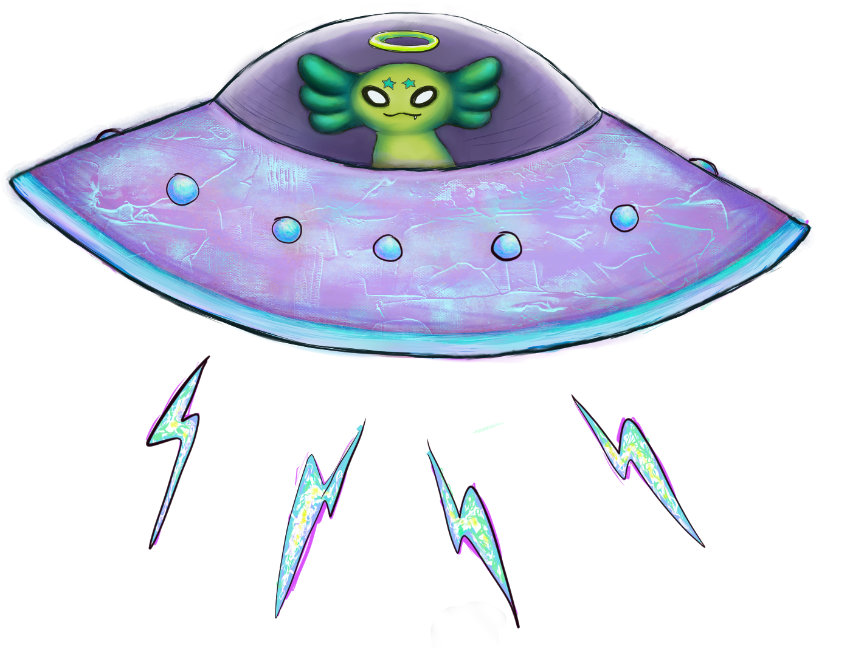
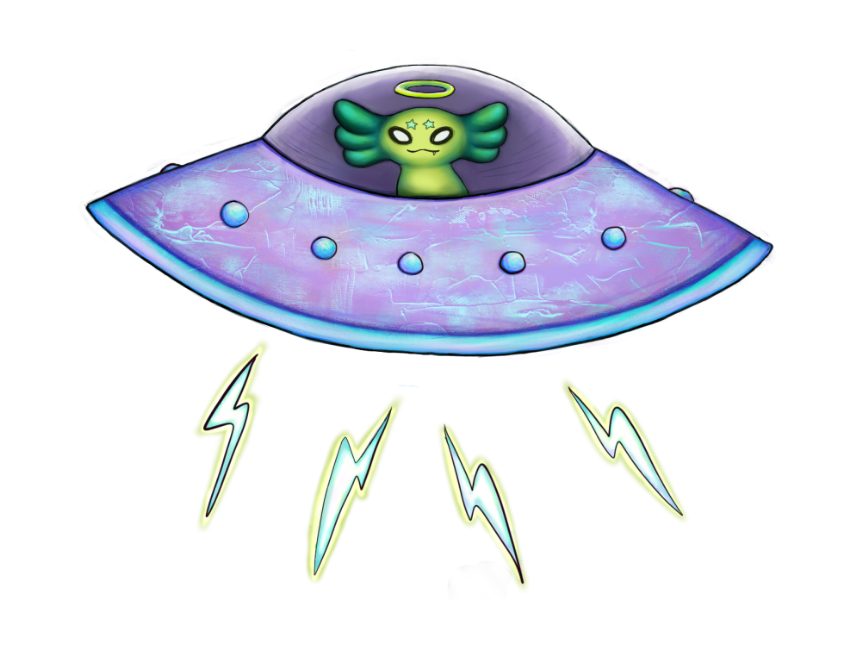
proper character default size
and startTimer now autoplays from editor

diff --git a/team-7-game/Scripts/Spawner.cs b/team-7-game/Scripts/Spawner.cs
@@ -46,7 +46,7 @@ public partial class Spawner : Node
 		*/
 
 		// start counting time, that triggers other things like spawning.
-		GetNode<Timer>("StartTimer").Start();
+		// GetNode<Timer>("StartTimer").Start();
 	}
 
 	// After (2) seconds from Game Start: starts the other timers.
